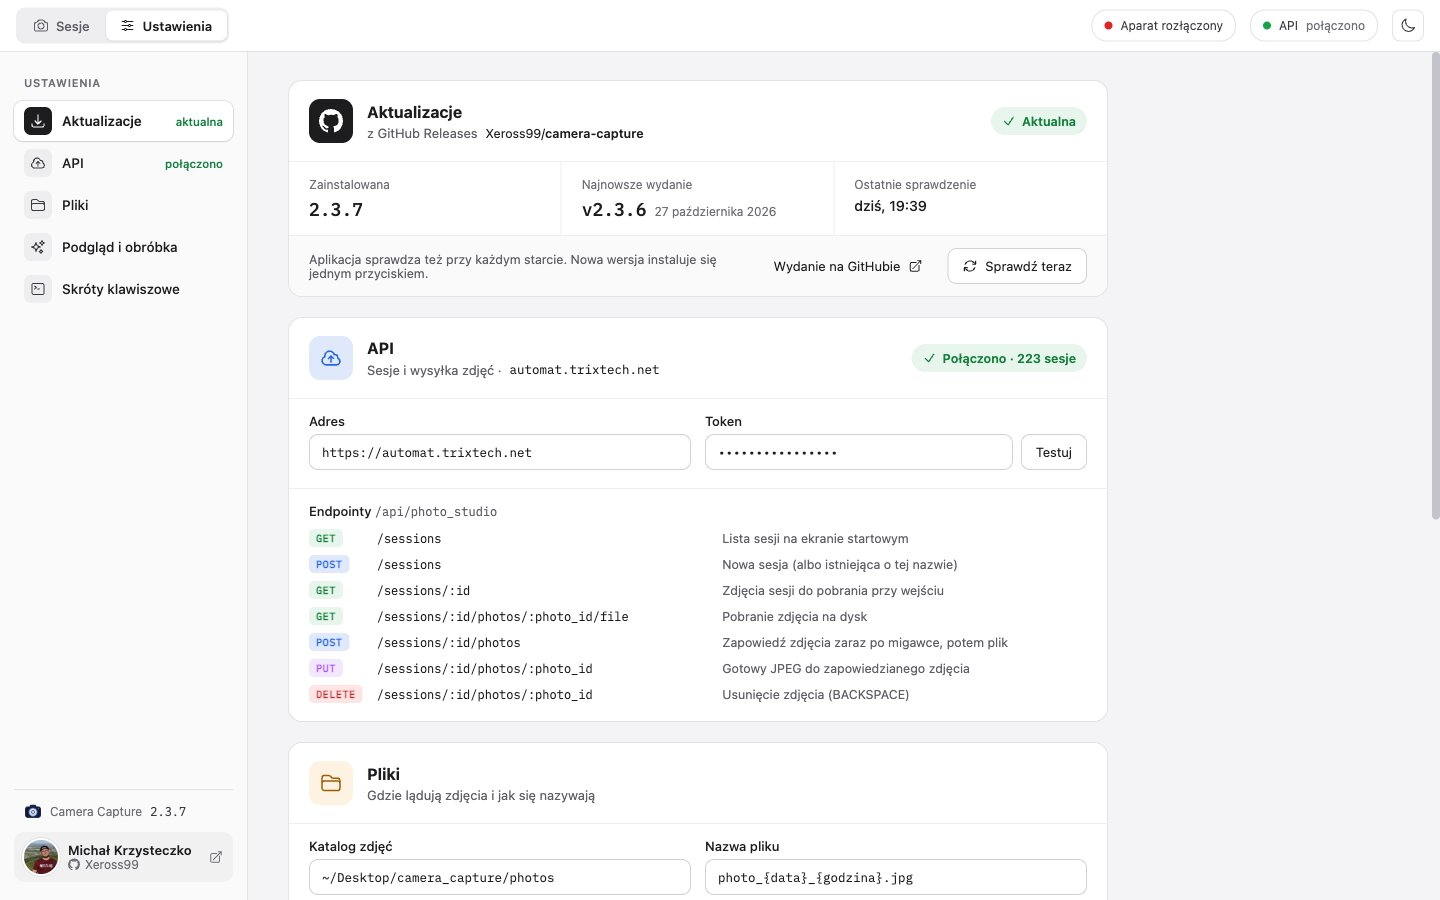
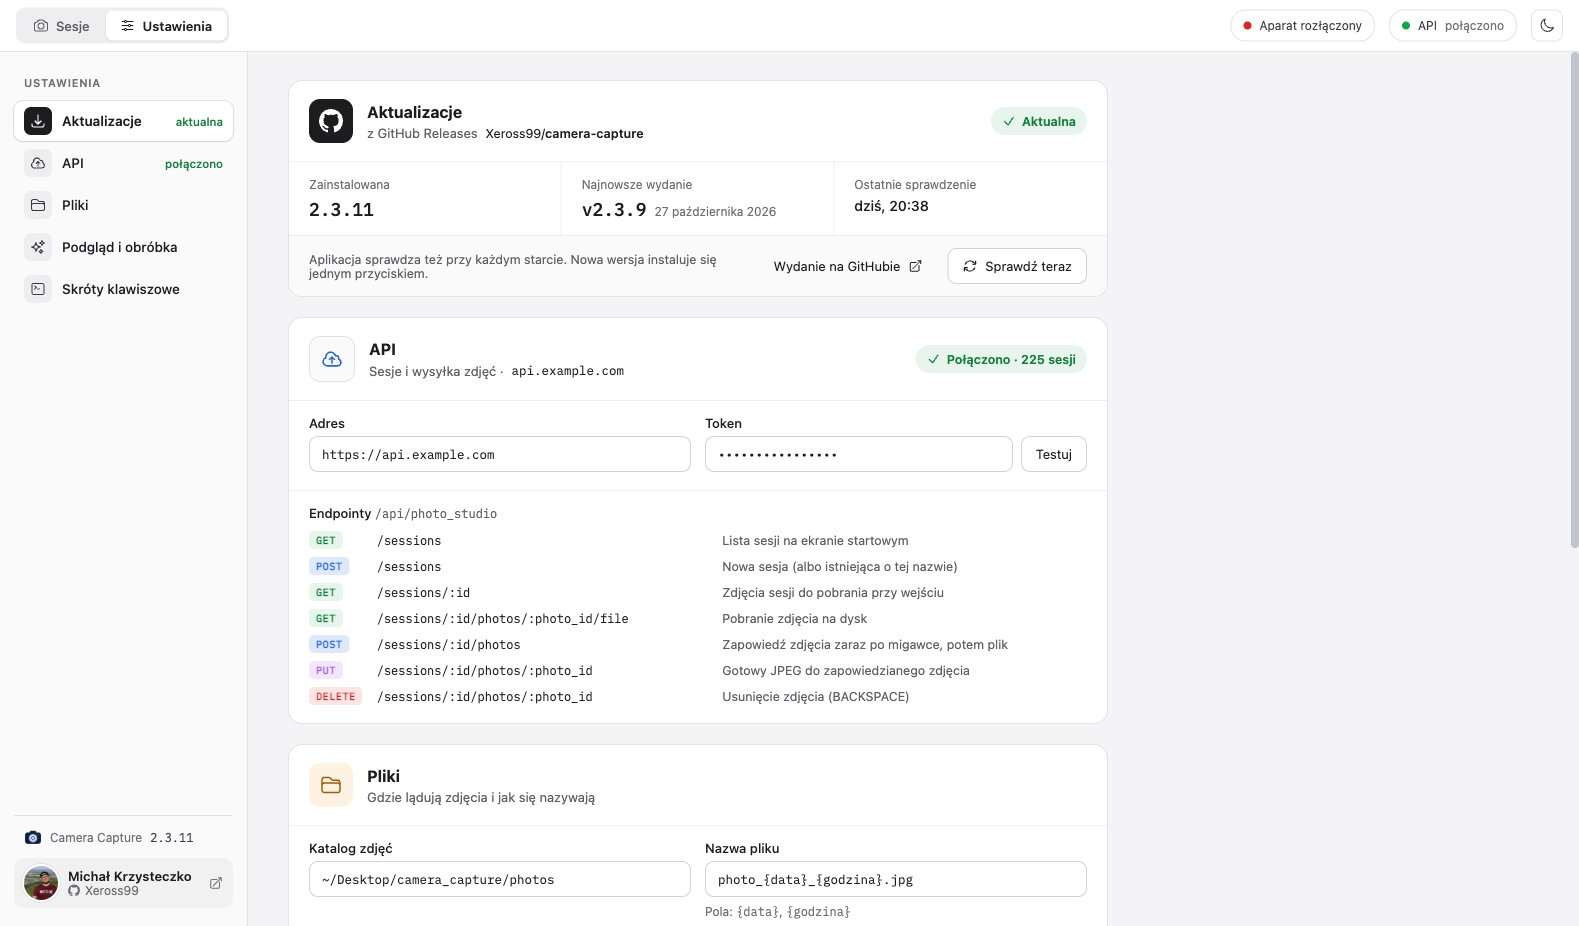
Camera Capture 2.3.12: README hides the API server, tests wait for the end of processing
- The settings screenshot shows api.example.com and no server favicon instead
  of the real API address.
- shoot_and_wait() waited for the photo file and a free shutter, but the worker
  writes .review.json a moment later; on slower Windows CI the meta test read
  it too early (2.3.11 was never released). It now waits for the log's
  "Zapisano <file>", and the same-second test waits for both.

diff --git a/tests/conftest.py b/tests/conftest.py
@@ -173,7 +173,11 @@ def shoot_and_wait(app, timeout: float = 120.0) -> str:
     def done():
         st = app.state()
         new = [s["file"] for s in st["shots"] if s["file"] not in before]
-        return new[0] if new and not st["busy"] else None
+        if not new or st["busy"]:
+            return None
+        # plik i wolna migawka pojawiaja sie, zanim worker dopisze .review.json
+        # i raw/ — koniec obrobki to dopiero wpis „Zapisano <plik>" w logu
+        return new[0] if any(t.startswith(f"Zapisano {new[0]}") for t in log_texts(app)) else None
     return wait_for(done, timeout, "gotowe zdjecie w sesji")
 
 

diff --git a/tests/test_app.py b/tests/test_app.py
@@ -40,9 +40,8 @@ def test_two_photos_in_the_same_second_are_both_kept(app, camera):
     sdir = open_session(app)
     app.action({"action": "shoot"})
     app.action({"action": "shoot"})
-    wait_for(lambda: camera.captures == 2 and not app.state()["busy"]
-             and app.state()["processing"] is None, 120, "dwa zdjecia")
-    wait_for(lambda: len(app.state()["shots"]) >= 1, 5, "zdjecia w sesji")
+    wait_for(lambda: sum(t.startswith("Zapisano ") for t in log_texts(app)) == 2, 120,
+             "obrobka obu zdjec")
     assert len(app.state()["shots"]) == 2, "drugie zdjecie nie moze nadpisac pierwszego"
 
 

diff --git a/src/version.py b/src/version.py
@@ -9,7 +9,7 @@ Bez importow — spec PyInstallera czyta ten plik zanim cokolwiek innego
 zdazy sie zaimportowac.
 """
 
-APP_VERSION = "2.3.11"
+APP_VERSION = "2.3.12"
 
 GITHUB_REPO = "Xeross99/camera-capture"
 
